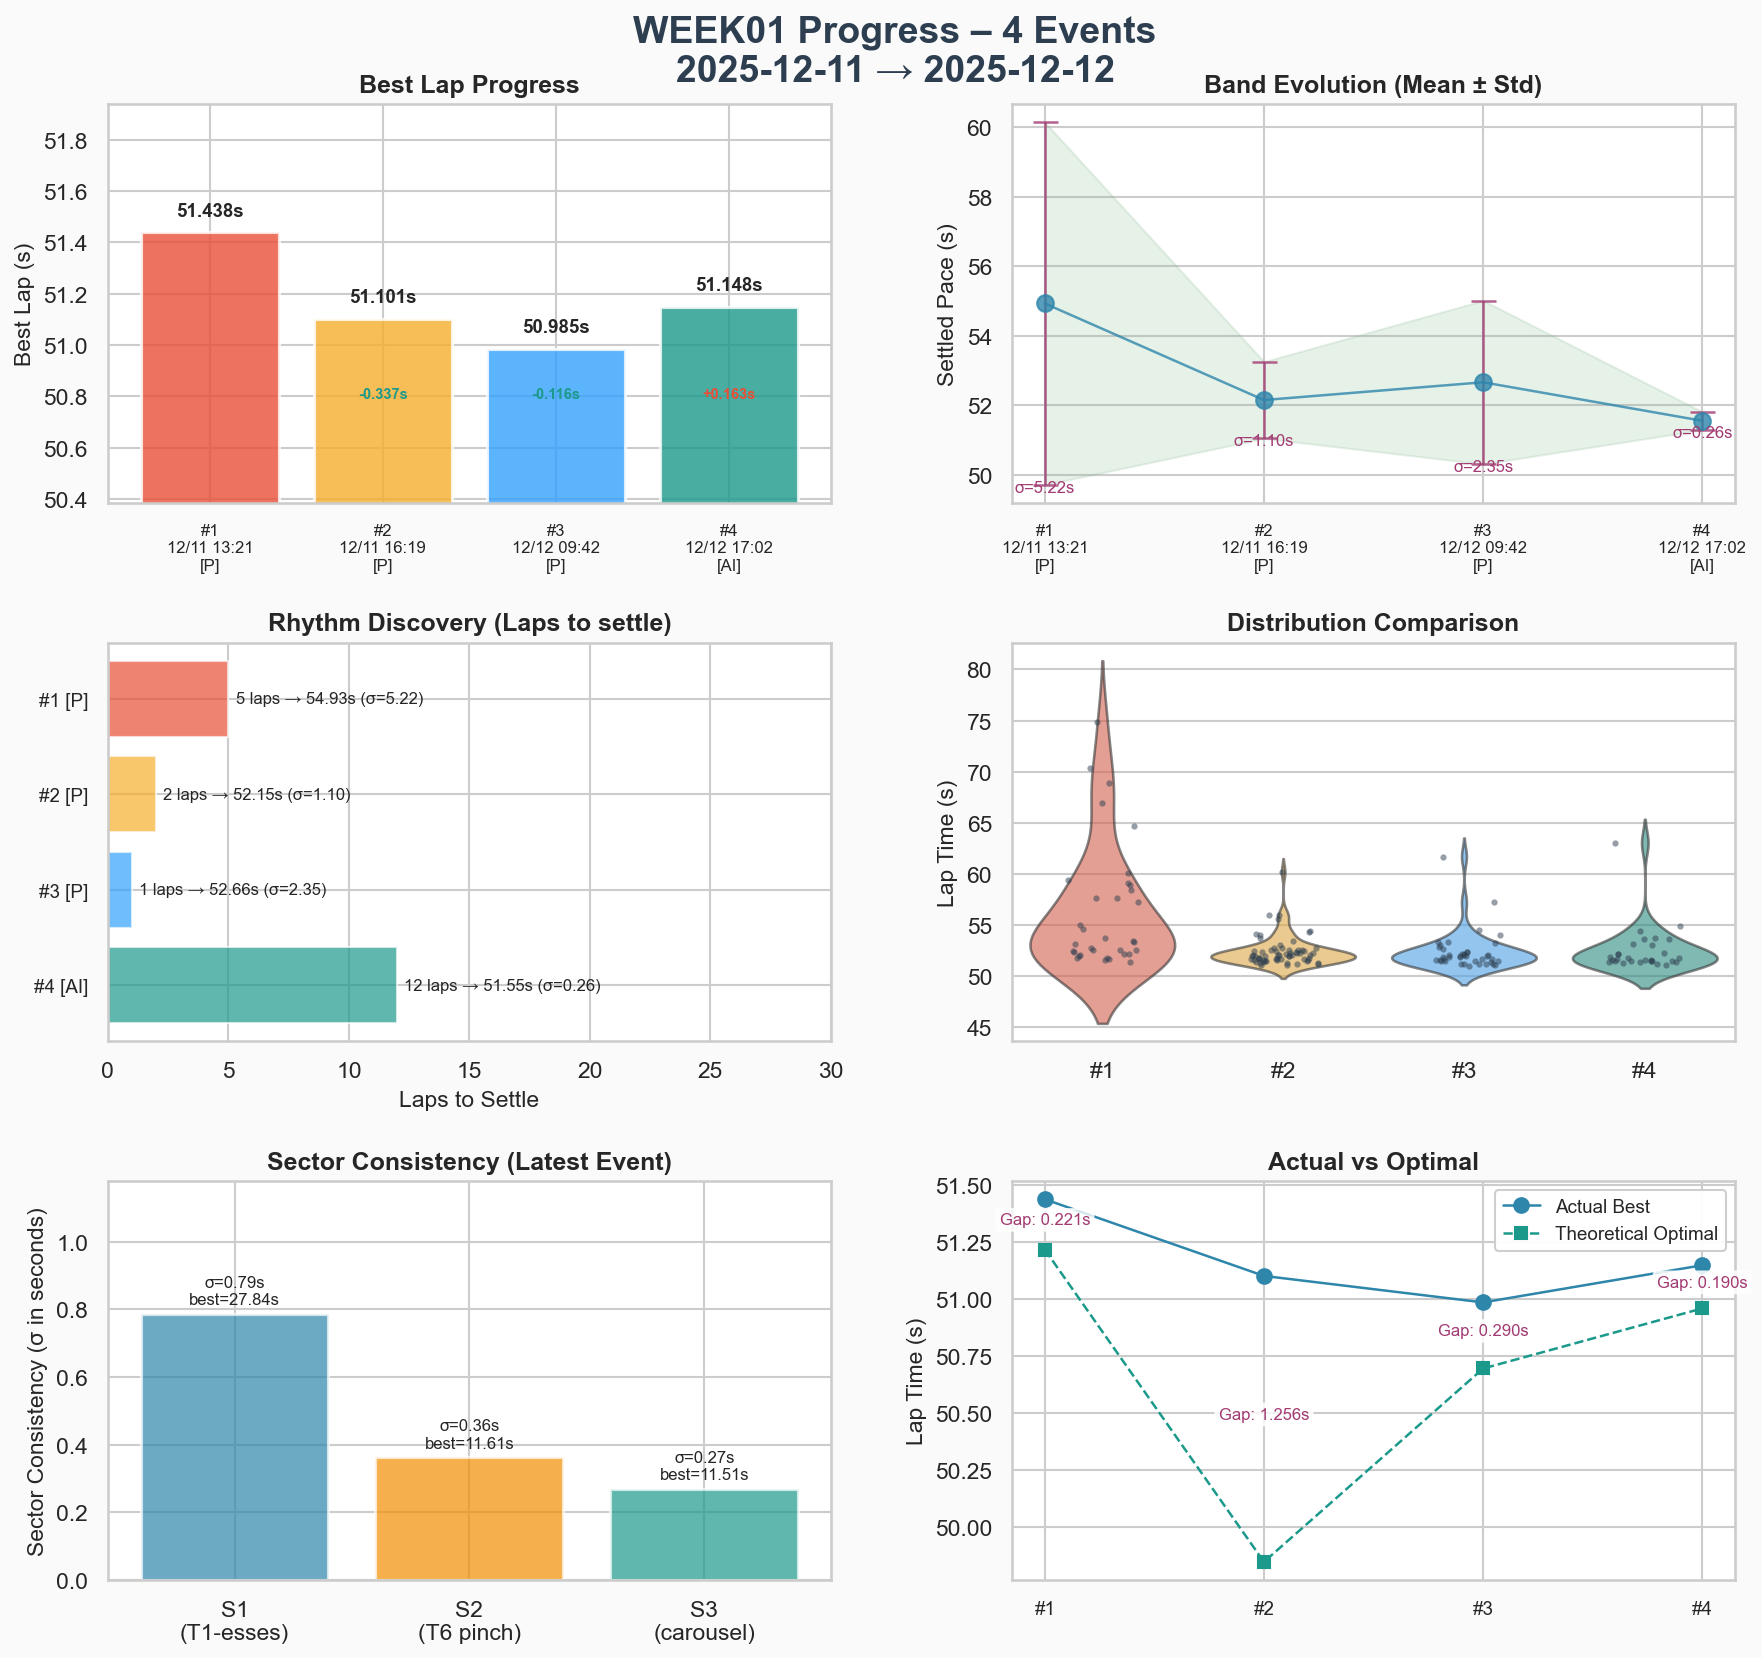
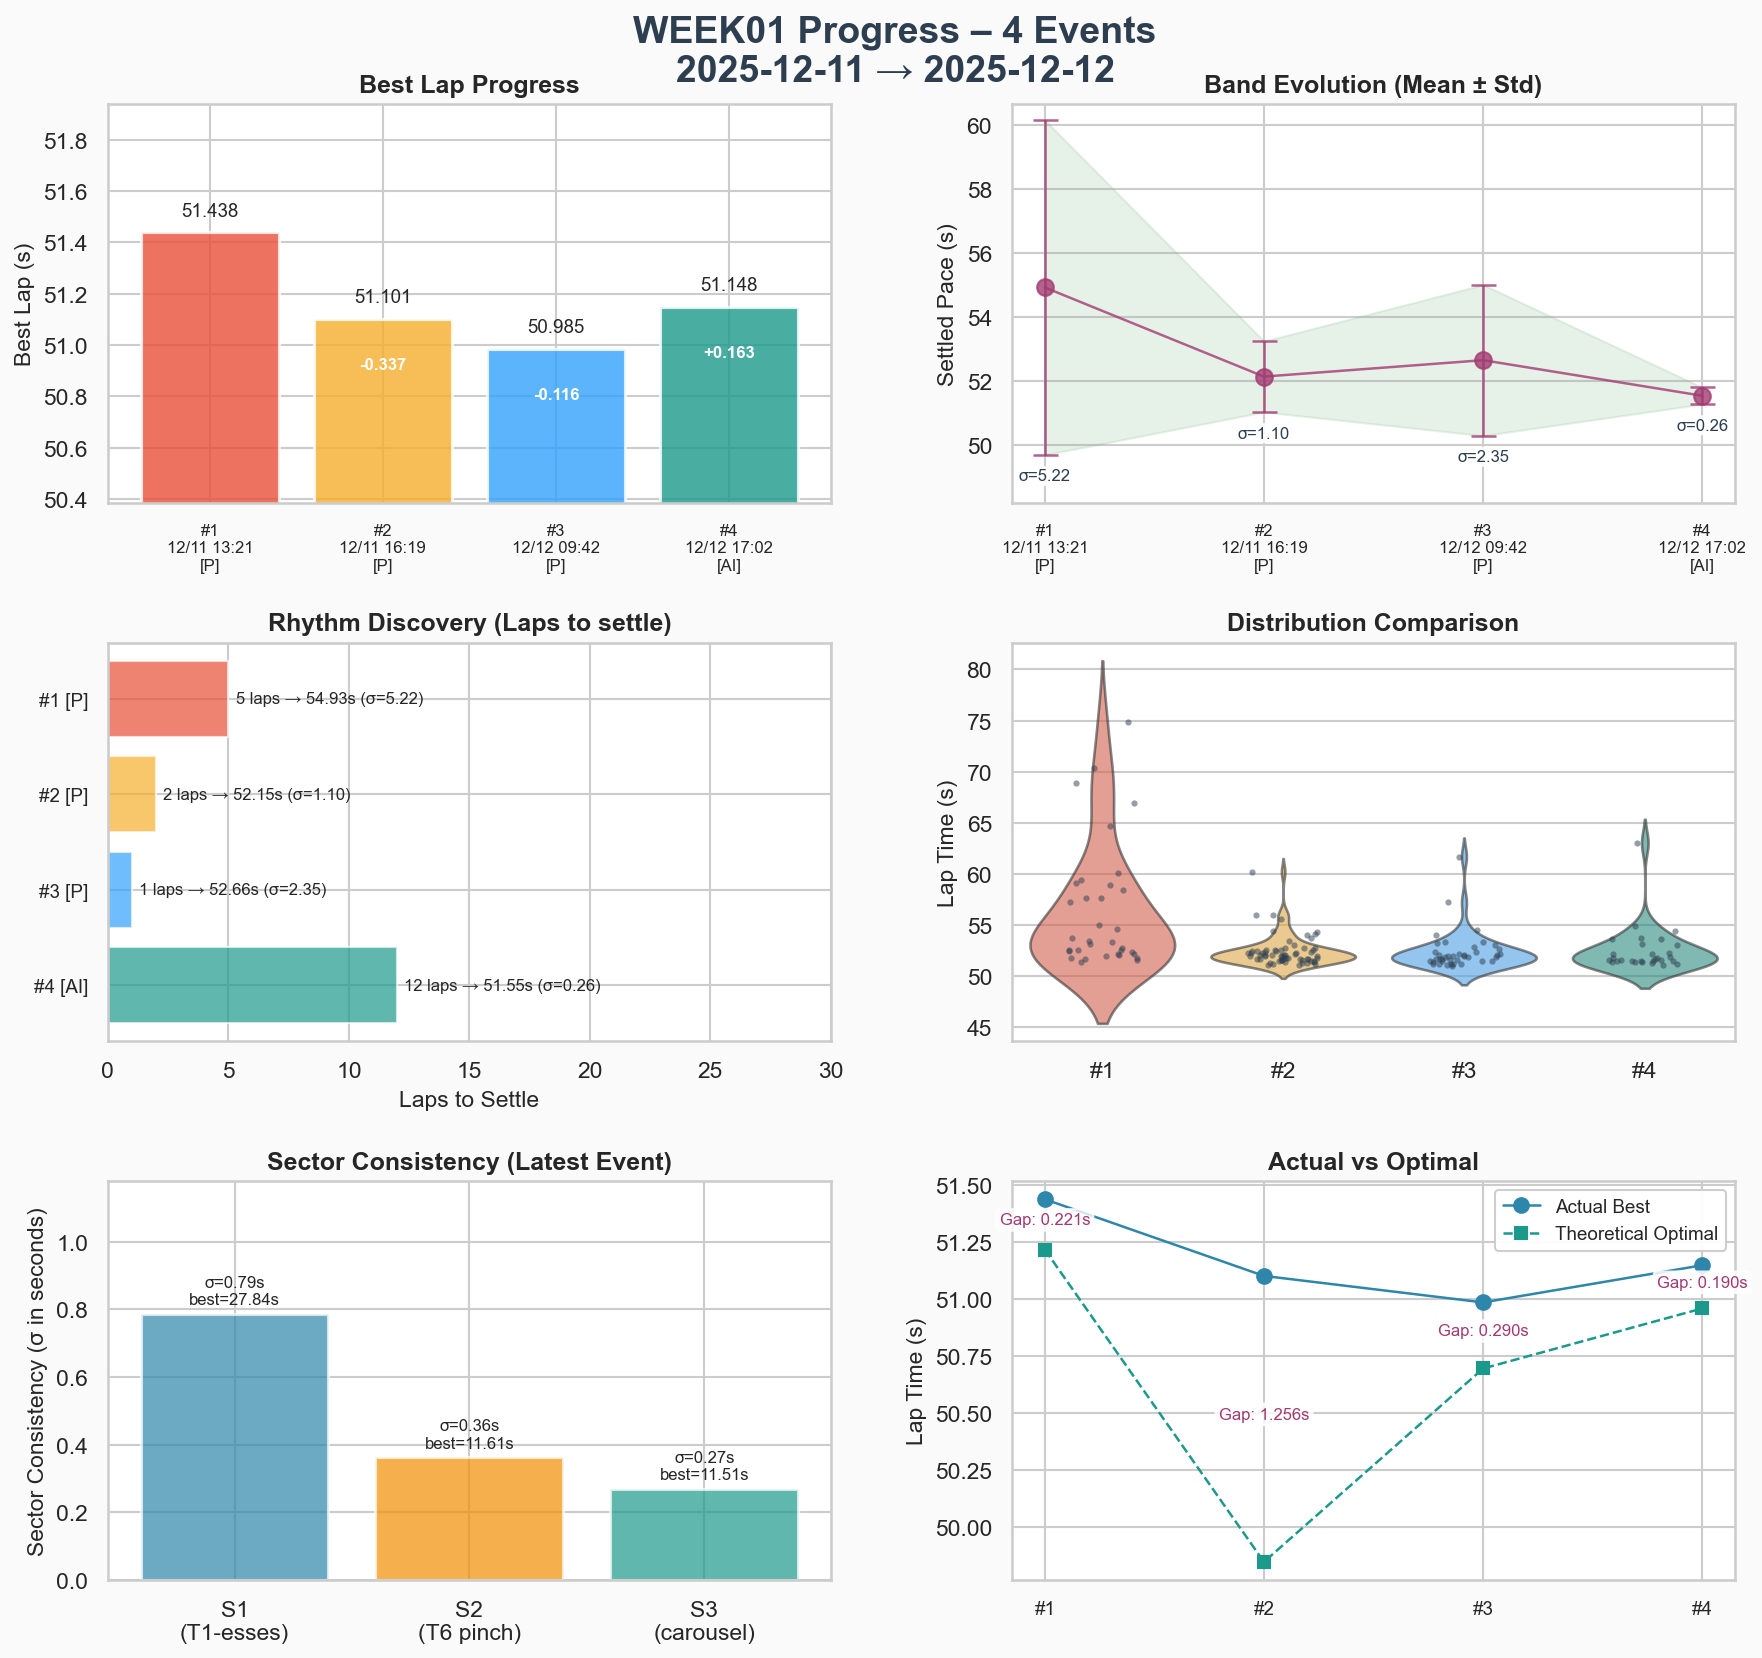
Update week-progress.png for improved content and enhance visualization in visualize_week.py by adjusting text formatting and error bar colors. Revise week01-summit-point-raceway.md to improve event debrief structure and clarity.

diff --git a/tools/visualize_week.py b/tools/visualize_week.py
@@ -175,16 +175,16 @@ def create_week_visualization(
         # Best lap time on top of bar
         fontsize = 9 if n_events <= 8 else 7
         ax1.text(bar.get_x() + bar.get_width()/2, bar.get_height() + 0.05,
-                f'{best:.3f}s', ha='center', va='bottom', fontsize=fontsize, fontweight='bold')
+                f'{best:.3f}', ha='center', va='bottom', fontsize=fontsize)
         
-        # Delta from previous session (skip if too many sessions)
+        # Delta from previous event (inside bar, white text)
         if i > 0 and n_events <= 10:
             delta = bests[i] - bests[i-1]
-            y_pos = min(bests) - 0.15
-            color = COLORS['fastest'] if delta < 0 else COLORS['dirty']
+            # Position inside the bar, near the bottom
+            y_pos = bar.get_height() - 0.15
             ax1.text(bar.get_x() + bar.get_width()/2, y_pos,
-                    f'{delta:+.3f}s', ha='center', va='top', fontsize=7, 
-                    fontweight='bold', color=color)
+                    f'{delta:+.3f}', ha='center', va='top', fontsize=8, 
+                    fontweight='bold', color='white')
     
     ax1.set_xticks(x_pos)
     ax1.set_xticklabels(event_labels, fontsize=8, rotation=label_rotation, ha=label_ha)
@@ -202,7 +202,7 @@ def create_week_visualization(
     settled_stds = [info['settled_std'] for _, info in sessions]
     
     ax2.errorbar(x_pos, settled_means, yerr=settled_stds, fmt='o-', 
-                color=COLORS['primary'], linewidth=1.2, markersize=8,
+                color=COLORS['secondary'], linewidth=1.2, markersize=8,
                 capsize=6, capthick=1.2, ecolor=COLORS['secondary'], alpha=0.8)
     
     # Fill band
@@ -210,10 +210,17 @@ def create_week_visualization(
     upper = [m + s for m, s in zip(settled_means, settled_stds)]
     ax2.fill_between(x_pos, lower, upper, alpha=0.2, color=COLORS['band_fill'])
     
-    # Add annotations
+    # Add annotations below the error bars
     for i, (m, s) in enumerate(zip(settled_means, settled_stds)):
-        ax2.annotate(f'σ={s:.2f}s', xy=(i, m - s - 0.2), ha='center', fontsize=8,
-                    color=COLORS['secondary'])
+        ax2.annotate(f'σ={s:.2f}', xy=(i, m - s - 0.8), ha='center', fontsize=8,
+                    color='#2C3E50', fontweight='medium',
+                    bbox=dict(boxstyle='round,pad=0.15', facecolor='white', 
+                             edgecolor='none', alpha=0.9))
+    
+    # Expand y-axis to make room for labels below
+    y_min = min(lower) - 1.5
+    y_max = max(upper) + 0.5
+    ax2.set_ylim(y_min, y_max)
     
     ax2.set_xticks(x_pos)
     ax2.set_xticklabels(event_labels, fontsize=8, rotation=label_rotation, ha=label_ha)

diff --git a/weeks/week01-summit-point-raceway.md b/weeks/week01-summit-point-raceway.md
@@ -21,9 +21,8 @@ conditions_qualifying_scrutiny: "permissive"
 
 # Week 01 – Summit Point Raceway – Jefferson Circuit
 
-> Track dossier: [Summit Point Jefferson Circuit](../tracks/track-summit-point-jefferson-circuit.md)
-
-> Intent: _Build a "family" of consistent laps – tighten the brake→turn→throttle sequence with less coasting in between._
+- [Track dossier](../tracks/track-summit-point-jefferson-circuit.md)
+- Intent: _Build a "family" of consistent laps – tighten the brake→turn→throttle sequence with less coasting in between._
 
 <!-- Auto-filled quick stats live in the YAML above – keep front matter tidy for scripts. -->
 
@@ -38,9 +37,9 @@ _Log each practice or test event as a single line._
 | 20251212 | solo  | band consolidation   | ~50 laps, best **50.984**, optimal 50.700, band shifted from 51.7–52.7 → **51.0–51.9**, stint 7 poetry: ten consecutive laps 51.0–51.8                                                       |
 | 20251212 | ai    | first race (20 min)  | P12→P2, 29 laps, best **51.148**, race band ~51.3–51.9 once settled, 14x inc (mix of racing & lazy off-tracks), rhythm survived the chaos                                                    |
 
-> Event types: `solo`, `ai`, `open-practice`, `tt`, etc. Keep notes to short observations or links to telemetry/video.
+### Event Debrief: 2025-12-11 Practice 01
 
-### Event Debrief: 2025-12-11
+- [Garage 61](https://garage61.net/app/event/01KC6TY32JWT4EE4JECKK1D06Q) - Practice 01 - Morning.
 
 **The Facts:**
 
@@ -80,11 +79,9 @@ _Log each practice or test event as a single line._
 
 ---
 
-### Event Debrief: 2025-12-11 (evening)
+### Event Debrief: 2025-12-11 Practice 02
 
-![20251211-session-evening](../images/week01/20251211-session-evening.png)
-
-- [VRS Analysis](https://virtualracingschool.appspot.com/#/DrivingAnalyzer/282780004/1750118400000/700079669256/1757459772/997/vs/5082689687781376/1757980800000/700079669256/1765469827/2453/FullTrack/map)
+- [Garage 61](https://garage61.net/app/event/01KC77TQXJ1PKXE2NKDVN02S4A) - Practice 02 - Evening.
 
 **Big picture:**
 
@@ -151,9 +148,11 @@ Because honestly, the lap looks like someone who's starting to trust Jefferson r
 
 ---
 
-### Event Debrief: 2025-12-12 (morning)
+### Event Debrief: 2025-12-12 Practice 03
 
-**The Band Has Shifted – And Tightened** 😏
+- [Garage 61](https://garage61.net/app/event/01KC8Z031B2HXY214JCJPR2T0S) - Practice 03 - Morning.
+
+_The Band Has Shifted – And Tightened_ 😏
 
 **Big Picture:**
 
@@ -198,11 +197,11 @@ That's the internalization you asked for: once you can point to it physically, t
 
 ---
 
-### Race Debrief: 2025-12-12 (evening) – First AI Race 😈
+### Race Debrief: 2025-12-12 AI Race 01
 
-![20251212-ai-race-laptimes](../images/week01/20251212-ai-race-laptimes.png)
+- [Garage 61](https://garage61.net/app/event/01KC9R46GMX7DD7SFDAGP14HAV) - AI Race 01 - Evening.
 
-**20-minute AI Race – Jefferson Circuit**
+_20-minute AI Race – Jefferson Circuit_
 
 **The Facts:**
 
